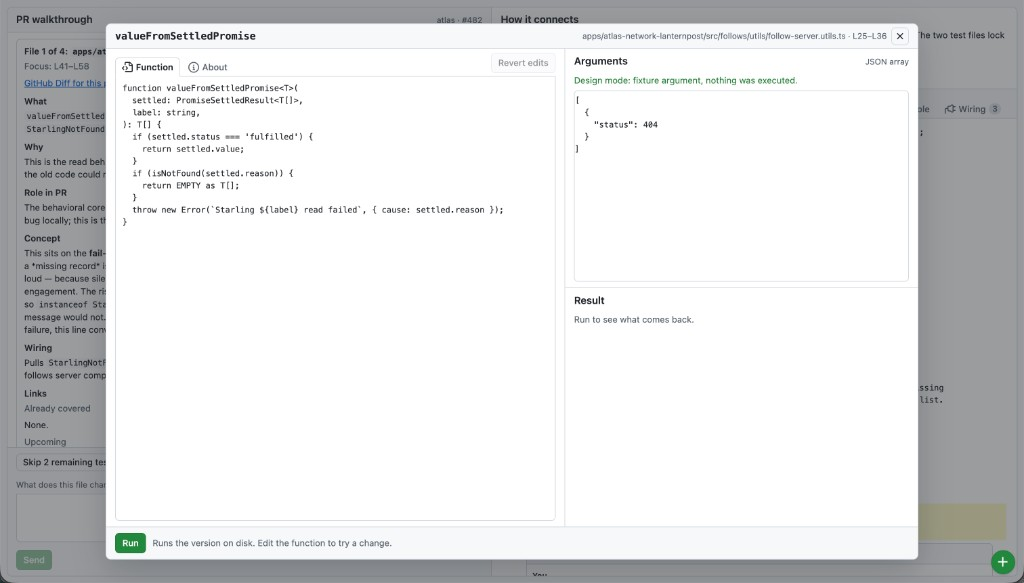
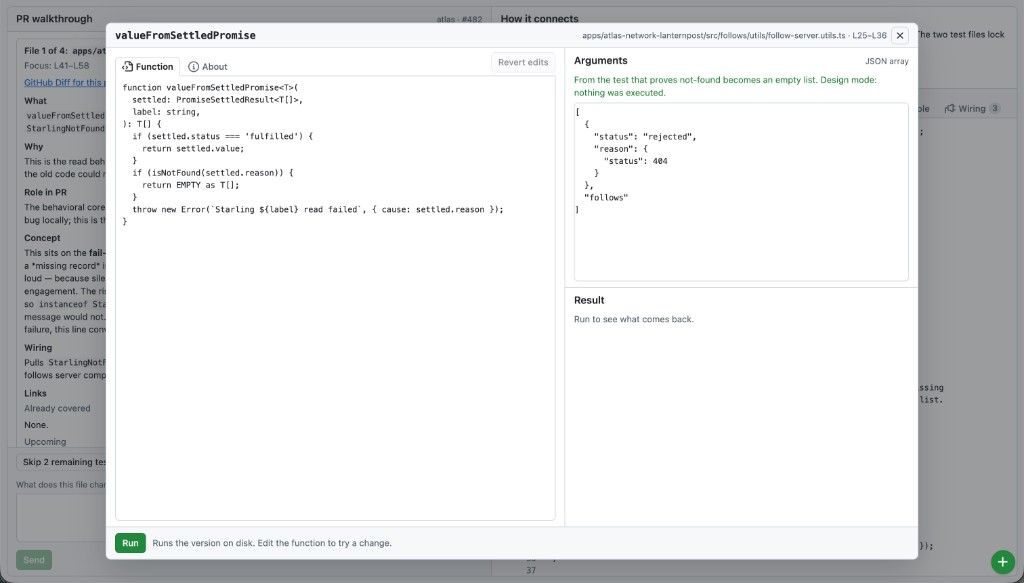
Fill the sandbox arguments box with something that fits the signature.
A sample argument is only useful if it matches the parameters it is offered
under, and two things broke that. Design mode answered every request with one
hard-coded argument, so any function showed the first one's; and a sandbox
opened straight onto a function never asked for a sample at all, because only
the click path did.

The design stub now answers per function, and both entry points into the
sandbox share one path. design:check compares each sample against the
parameters of the function actually at that line, so an argument that cannot
fit its signature fails the check rather than waiting to be noticed.

diff --git a/web/src/components/FileInspect.tsx b/web/src/components/FileInspect.tsx
@@ -133,6 +133,13 @@ export function FileInspect({
     dropBrief();
   }, [card?.path]);
 
+  // A sandbox opened straight onto a function still needs its sample argument;
+  // only the click path used to ask for one.
+  useEffect(() => {
+    if (openFn) openSandbox(openFn);
+    // eslint-disable-next-line react-hooks/exhaustive-deps
+  }, [openFn?.startLine]);
+
   const here = annotations.filter((a) => a.path === card?.path);
 
   function thread(note: Annotation) {
@@ -163,6 +170,40 @@ export function FileInspect({
     setSampleNote(null);
     setSampleKind(null);
     dropBrief();
+  }
+
+  /**
+   * Opens the sandbox on a function and fills the arguments box with the best
+   * sample the host can find, falling back to per-parameter placeholders while
+   * that search runs.
+   */
+  function openSandbox(next: FnBlock) {
+    const gen = ++sampleGen.current;
+    sampleAbort.current?.abort();
+    const ac = new AbortController();
+    sampleAbort.current = ac;
+    setFn(next);
+    dropBrief();
+    setArgsJson(defaultArgsJson(next));
+    setSampleKind("loading");
+    setSampleNote("Looking in tests and fixtures for a sample argument…");
+    void onSuggestArgs(next.startLine, ac.signal)
+      .then((sample) => {
+        if (sampleGen.current !== gen) return;
+        setArgsJson(JSON.stringify(sample.args, null, 2));
+        setSampleKind(sample.kind);
+        setSampleNote(sample.note);
+      })
+      .catch((err: unknown) => {
+        if (sampleGen.current !== gen) return;
+        if (err instanceof Error && err.name === "AbortError") return;
+        setSampleKind("placeholder");
+        setSampleNote(
+          err instanceof Error
+            ? err.message
+            : "Could not search tests; using placeholders.",
+        );
+      });
   }
 
   function dropBrief() {
@@ -298,34 +339,7 @@ export function FileInspect({
                 closeProbe();
                 return;
               }
-              const gen = ++sampleGen.current;
-              sampleAbort.current?.abort();
-              const ac = new AbortController();
-              sampleAbort.current = ac;
-              setFn(next);
-              dropBrief();
-              setArgsJson(defaultArgsJson(next));
-              setSampleKind("loading");
-              setSampleNote(
-                "Looking in tests and fixtures for a sample argument…",
-              );
-              void onSuggestArgs(next.startLine, ac.signal)
-                .then((sample) => {
-                  if (sampleGen.current !== gen) return;
-                  setArgsJson(JSON.stringify(sample.args, null, 2));
-                  setSampleKind(sample.kind);
-                  setSampleNote(sample.note);
-                })
-                .catch((err: unknown) => {
-                  if (sampleGen.current !== gen) return;
-                  if (err instanceof Error && err.name === "AbortError") return;
-                  setSampleKind("placeholder");
-                  setSampleNote(
-                    err instanceof Error
-                      ? err.message
-                      : "Could not search tests; using placeholders.",
-                  );
-                });
+              openSandbox(next);
             }}
             renderNote={thread}
             busy={busy}

diff --git a/web/src/design/smoke.tsx b/web/src/design/smoke.tsx
@@ -1,9 +1,16 @@
 import React from "react";
 import { renderToString } from "react-dom/server";
 import { Sandbox } from "../components/Sandbox";
+import { functionAtLine } from "../functionAtLine";
 import { WalkView, type WalkActions } from "../components/WalkView";
 import type { FunctionBrief, ProbeArgSuggestion } from "../types";
-import { AUTH_MISSING, AUTH_OK, FIX_BRIEF, SCENARIOS } from "./fixtures";
+import {
+  AUTH_MISSING,
+  AUTH_OK,
+  FIX_BRIEF,
+  FIX_SAMPLES,
+  SCENARIOS,
+} from "./fixtures";
 
 /**
  * Headless check that every design-mode state still renders, and that the pane
@@ -211,6 +218,32 @@ for (const s of SCENARIOS) {
     // Prose, not code: the About pane must not inherit the editor's font.
     if (/class="code sandbox-about/.test(html)) {
       fail("sandbox-about", "About pane is styled as code");
+    }
+  }
+}
+
+// A sample argument is only useful if it fits the signature it is offered
+// under, so each one is checked against the parameters of the function actually
+// at that line.
+{
+  const text = SCENARIOS.find((s) => s.session?.fileText)?.session?.fileText;
+  const path = SCENARIOS.find((s) => s.session?.card)?.session?.card?.path;
+  if (!text || !path) {
+    fail("samples", "no scenario carries file text to check samples against");
+  } else {
+    for (const [line, sample] of Object.entries(FIX_SAMPLES)) {
+      const fn = functionAtLine(text, Number(line), path);
+      if (!fn) {
+        fail("samples", `no function at line ${line}`);
+        continue;
+      }
+      const params = fn.params.filter((p) => p !== "this");
+      if (sample.args.length !== params.length) {
+        fail(
+          "samples",
+          `${fn.name} takes (${params.join(", ")}) but its sample has ${sample.args.length} argument(s)`,
+        );
+      }
     }
   }
 }

diff --git a/web/src/design/DesignMode.tsx b/web/src/design/DesignMode.tsx
@@ -2,7 +2,13 @@ import { useEffect, useRef, useState } from "react";
 import { Octicon } from "../components/Octicon";
 import { WalkView, type WalkActions } from "../components/WalkView";
 import type { FunctionBrief, ProbeArgSuggestion } from "../types";
-import { AUTH_MISSING, AUTH_OK, FIX_BRIEF, SCENARIOS } from "./fixtures";
+import {
+  AUTH_MISSING,
+  AUTH_OK,
+  FIX_BRIEF,
+  FIX_SAMPLES,
+  SCENARIOS,
+} from "./fixtures";
 
 /**
  * Design mode: every walk state on fixtures, with no agent and no server.
@@ -60,13 +66,20 @@ export function DesignMode() {
     onReply: () => undefined,
     onResolve: () => undefined,
     onProbe: () => undefined,
-    onSuggestArgs: (): Promise<ProbeArgSuggestion> =>
-      Promise.resolve({
-        args: [{ status: 404 }],
-        note: "Design mode: fixture argument, nothing was executed.",
-        kind: "fixture",
-        source: "follow-server.utils.test.ts",
-      }),
+    onSuggestArgs: (line): Promise<ProbeArgSuggestion> => {
+      const sample = FIX_SAMPLES[line];
+      if (!sample) {
+        return Promise.resolve({
+          args: [],
+          note: "Design mode: no fixture argument for this function.",
+          kind: "placeholder",
+        });
+      }
+      return Promise.resolve({
+        ...sample,
+        note: `${sample.note} Design mode: nothing was executed.`,
+      });
+    },
     onExplainFunction: (): Promise<FunctionBrief> =>
       Promise.resolve(FIX_BRIEF),
   };

diff --git a/web/src/design/fixtures.ts b/web/src/design/fixtures.ts
@@ -8,6 +8,7 @@ import type {
   FnBlock,
   FunctionBrief,
   Overview,
+  ProbeArgSuggestion,
   SessionSnapshot,
 } from "../types";
 
@@ -195,6 +196,37 @@ export async function getFollows(userId: string): Promise<FollowsResponse> {
   };
 }
 `;
+
+/**
+ * One suggestion per function in FIX_FILE_TEXT, keyed by the line its header
+ * sits on. Keyed rather than constant because the arguments box is only worth
+ * reviewing when it holds a value that fits the signature it is sitting under.
+ */
+export const FIX_SAMPLES: Record<number, ProbeArgSuggestion> = {
+  7: {
+    args: [{ status: 404 }],
+    note: "From the test that pins the 404 case.",
+    kind: "test",
+    source: "follow-server.utils.test.ts:14",
+  },
+  12: {
+    args: [{ status: 404 }, 404],
+    note: "Built from the parameter types; no test calls this directly.",
+    kind: "shape",
+  },
+  25: {
+    args: [{ status: "rejected", reason: { status: 404 } }, "follows"],
+    note: "From the test that proves not-found becomes an empty list.",
+    kind: "test",
+    source: "follow-server.utils.test.ts:29",
+  },
+  38: {
+    args: ["usr_8134"],
+    note: "From the call site in the follows page.",
+    kind: "callsite",
+    source: "src/follows/page.tsx:22",
+  },
+};
 
 const FIX_DIFF = `diff --git a/apps/atlas-network-lanternpost/src/follows/utils/follow-server.utils.ts b/apps/atlas-network-lanternpost/src/follows/utils/follow-server.utils.ts
 index 8a1c2f4..3d9e77b 100644
